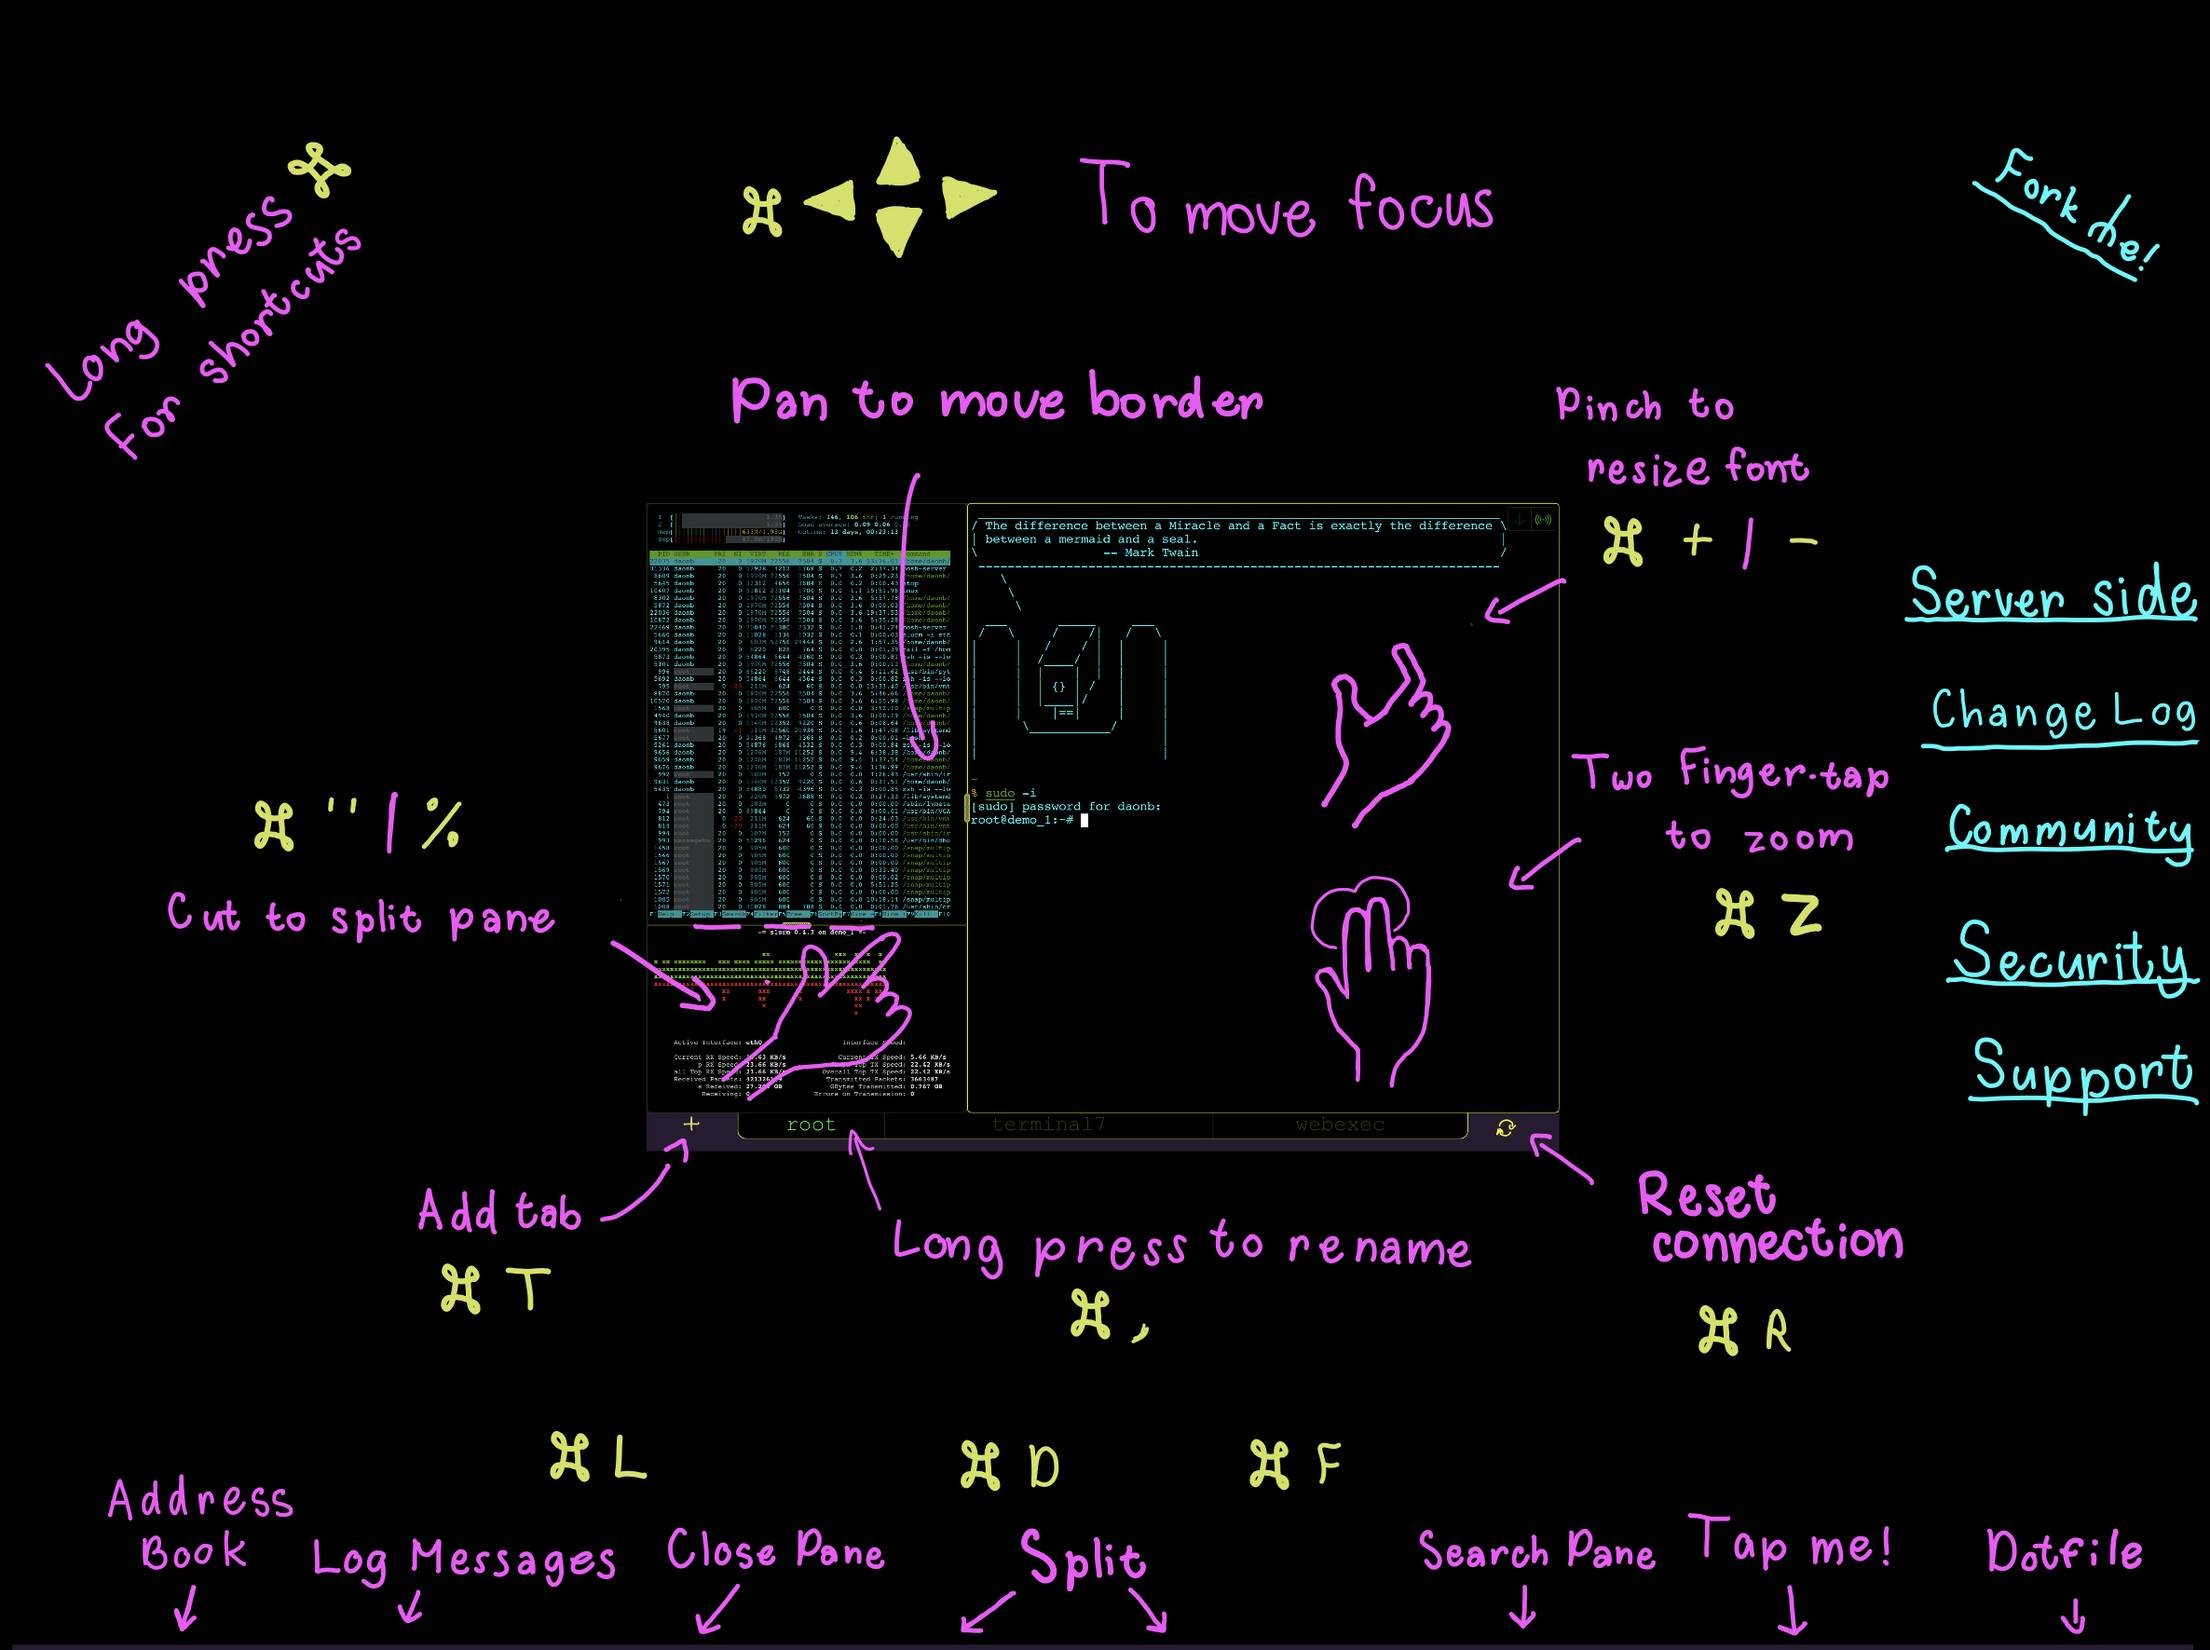
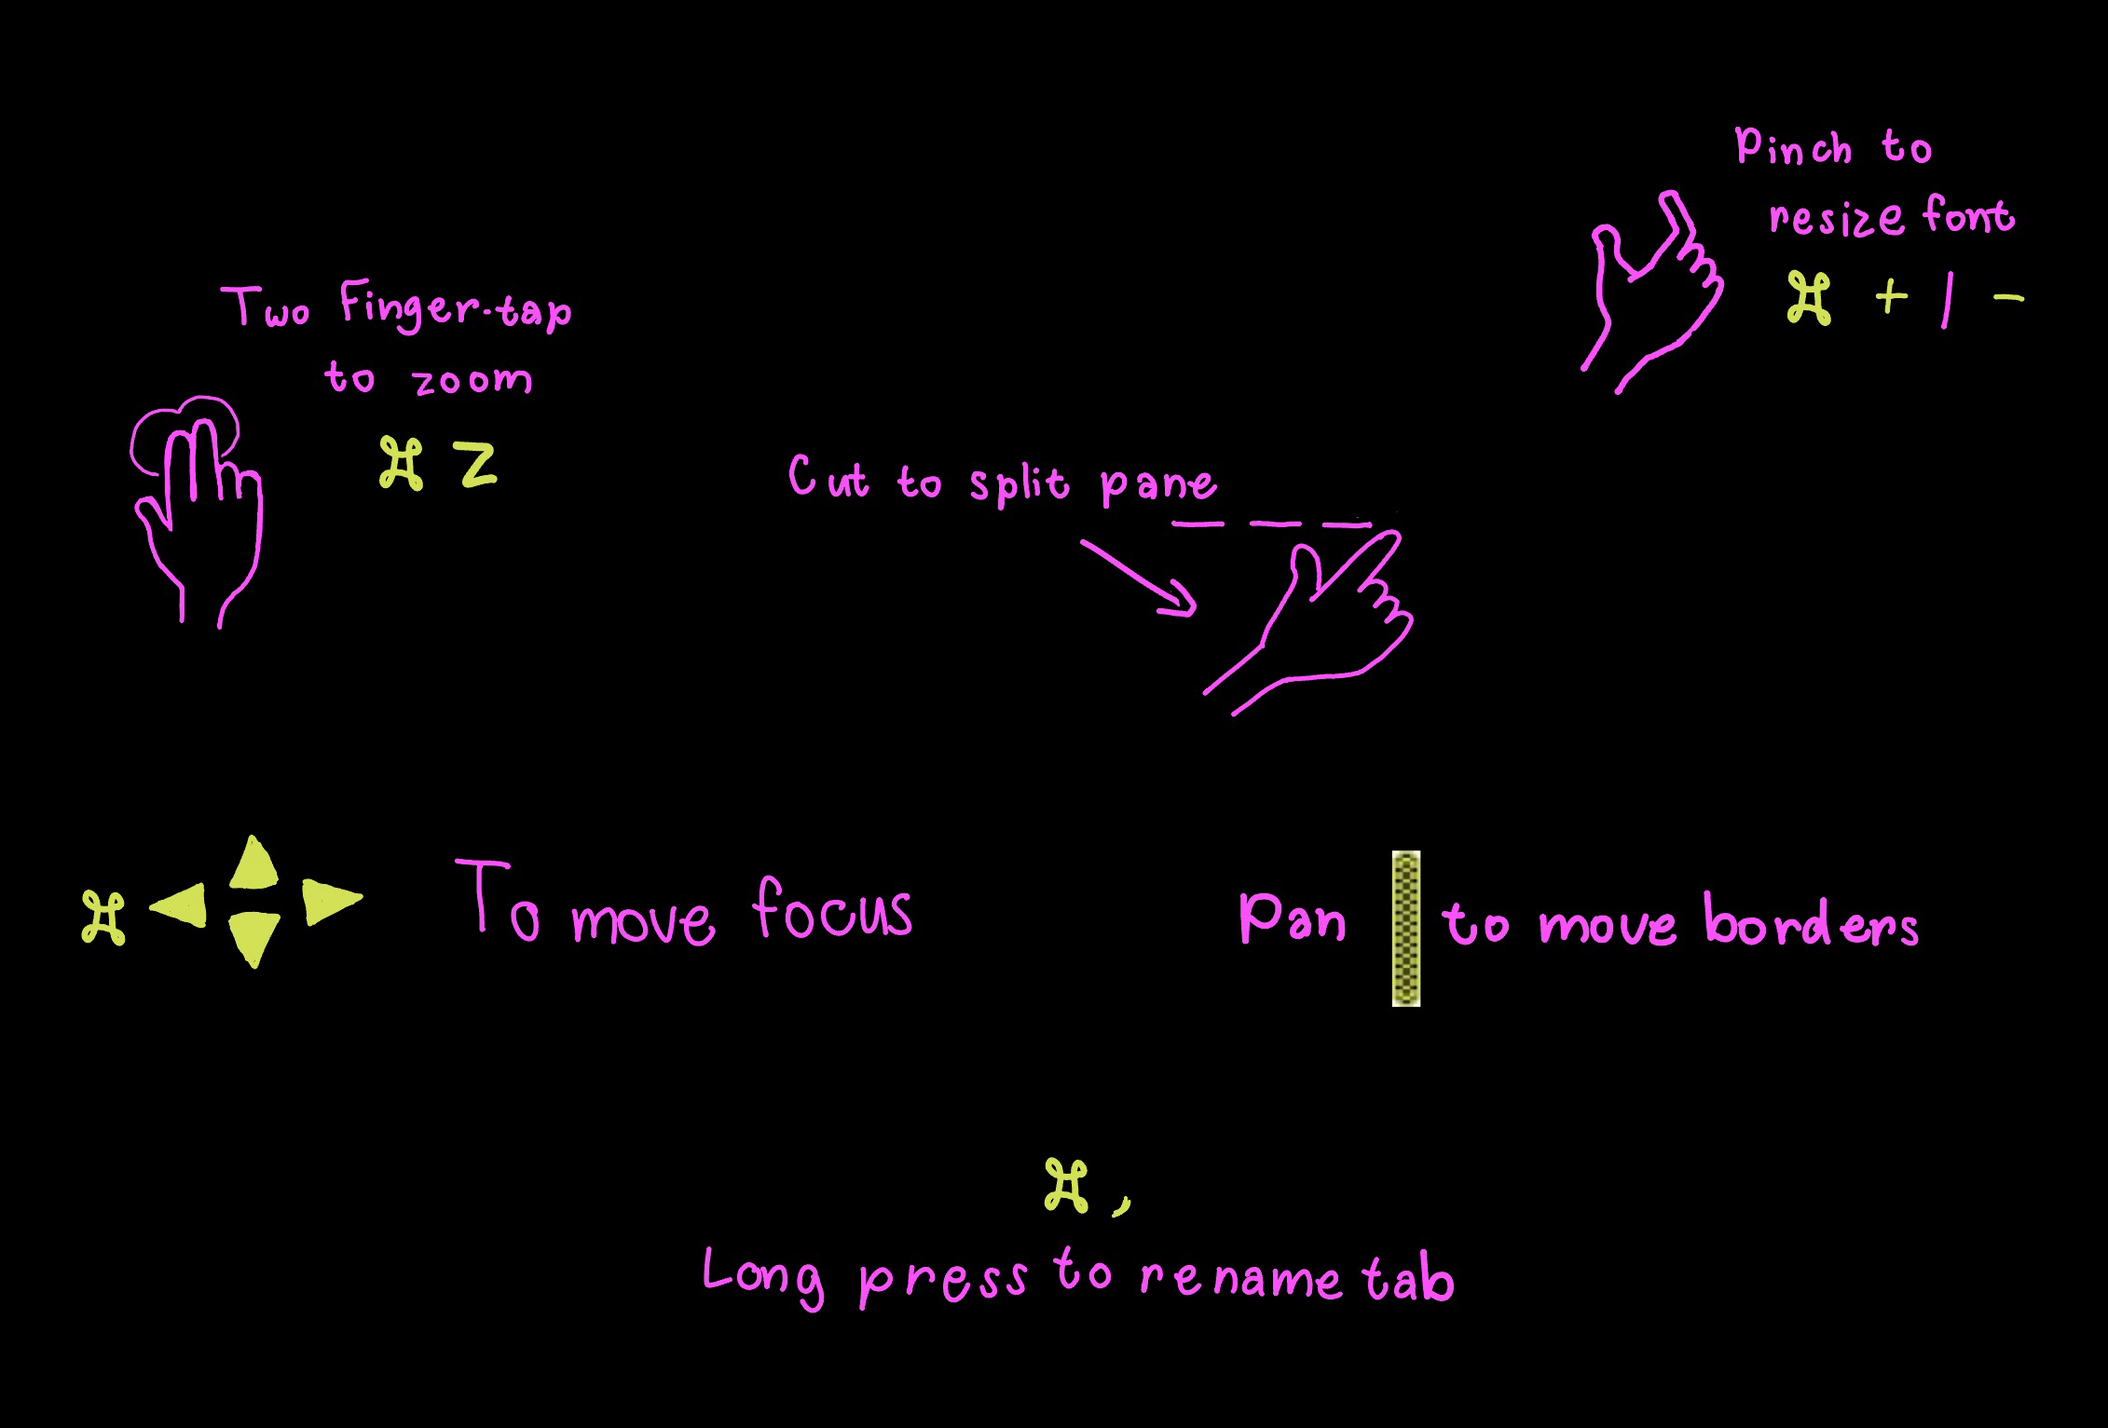
Fixing help

diff --git a/css/terminal7.css b/css/terminal7.css
@@ -17,7 +17,7 @@
     --text-offline: #004444;
     --pane-background: black;
     --dark-border: #373702;
-    --help-bubble-bg-color: rgba(200, 200, 200, .7);
+    --help-bubble-bg-color: rgba(55, 55, 2, .7);
 }
 @font-face {
     font-family: "FiraSans";
@@ -215,7 +215,7 @@ nav button {
     font-size: 1rem;
     font-family: 'FiraSans', serif;
     background-color: var(--help-bubble-bg-color);
-    color: #000;
+    color: var(--text-color);
     text-align: center;
     padding: 5px 0;
     border-radius: 6px;
@@ -612,25 +612,22 @@ td {
     margin-top: 2em;
 }
 #help-home, #help-gate {
-    visibility: hidden;
-    opacity: 0;
-    display: flex;
-    max-height: calc(100% - 56px);
+    opacity: 0.7;
+    height: calc(100% - 300px);
+    width: 94%;
     position: fixed;
-    left: 0;
-    bottom: 56px;
+    left: 3%;
+    bottom: 224px;
     z-index: 5;
-    background-color: var(--background);
-    transition: all .75s ease;
+    background-color: black;
+    border: 1px solid var(--local-border);
 }
-#help-home.show, #help-gate.show {
-    opacity: 0.65;
-    visibility: visible;
-    transition: all .75s ease;
+#help-gate img {
+    object-fit: contain;
+    width: 100%;
+    height: 100%;
 }
-#help-gate {
-    border: 1px dotted var(--local-border);
-}
+
 .compact-fields {
     max-width: 20em;
     margin-right: auto;

diff --git a/src/terminal7.ts b/src/terminal7.ts
@@ -788,7 +788,7 @@ export class Terminal7 {
         } else {
             this.isHelpShown = doShow
         }
-        const isPaneShown = !document.querySelector('.gate')?.classList.contains('hidden')
+        const isPaneShown = terminal7.activeG?.boarding
         if (!this.buttonHelpBubbles)
             this.createHelpBubbles()
         const funcName = this.isHelpShown ? 'remove' : 'add'
@@ -797,6 +797,7 @@ export class Terminal7 {
                 bhb.classList[funcName]('hidden')
         })
         if (isPaneShown) {
+            document.getElementById('help-gate').classList[funcName]('hidden')
             this.focus()
         }
         this.activeG?.activeW?.activeP?.hideSearch()

diff --git a/index.html b/index.html
@@ -147,9 +147,8 @@
           <h1 class="warning">Network is down</h1>
           <p>Terminal 7 will activate on reconnect</p>
       </div>
-      <div id="help-gate">
-          <img src="img/help-gate.png"
-            alt="gate help screen" width="100%">
+      <div id="help-gate" class="hidden">
+          <img src="img/help.png" alt="gate help screen">
       </div>
       <div id="keys-help" class="keys-help hidden modal border" >
           <p>Use CTRL-A if your keyboard has no ⌘</p>
